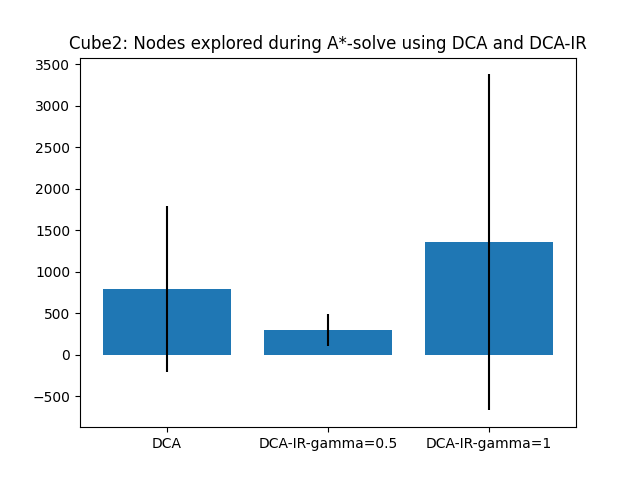
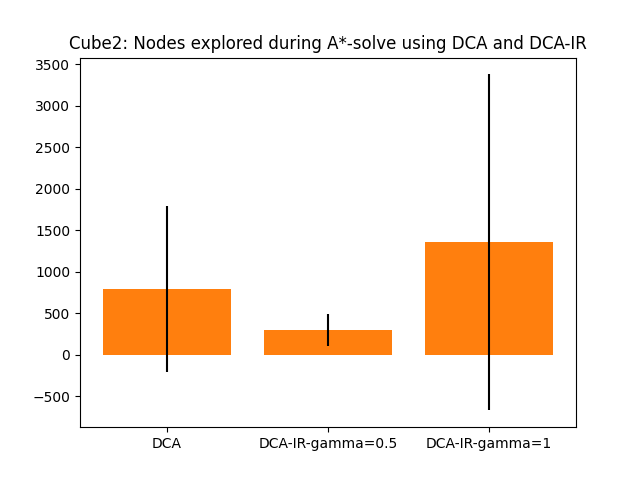
cube2 node graph changed color

Changed region(s): [[0.6562, 0.5, 0.875, 0.75], [0.1562, 0.5938, 0.375, 0.75], [0.4062, 0.6875, 0.625, 0.75]]

diff --git a/results/check_results.py b/results/check_results.py
@@ -33,8 +33,8 @@ def plot(traj, sample_id, result_path):
         axes[0, 1].imshow(COLOR_MAP[traj[sample_id][k][0]])
         axes[1, 0].imshow(COLOR_MAP[traj[sample_id][k][1]])
         axes[1, 1].imshow(COLOR_MAP[traj[sample_id][k][2]])
-        axes[1, 2].imshow(COLOR_MAP[traj[sample_id][k][3]]) # WARNING: changed 
-        axes[1, 3].imshow(COLOR_MAP[traj[sample_id][k][4]]) # WARNING: changed
+        axes[1, 2].imshow(COLOR_MAP[traj[sample_id][k][3]])
+        axes[1, 3].imshow(COLOR_MAP[traj[sample_id][k][4]])
         axes[2, 1].imshow(COLOR_MAP[traj[sample_id][k][5]])
 
         save_dir = result_path + "sample_traj/{}/".format(sample_id)
@@ -71,7 +71,7 @@ def combine_imgs(result_path, idx, traj_len):
     fig.savefig(save_path)
     plt.close()
 
-def make_trajectory_plot(result0_path, result1_path, num_samples=10):
+def make_trajectory_plot(result0_path, result1_path, result2_path, num_samples=10):
     with open(result0_path + "results.pkl", 'rb') as f:
         result0 = pickle.load(f)
     with open(result1_path + "results.pkl", "rb") as f:
@@ -159,7 +159,7 @@ def make_node_plot(result0_path, result1_path, result2_path, num_samples=10):
     
     plt.bar([0, 1, 2], [mean0, mean1, mean2],
             tick_label=["DCA", "DCA-IR-gamma=0.5", "DCA-IR-gamma=1"],
-            yerr=[[std0, std1, std2], [std0, std1, std2]])
+            yerr=[[std0, std1, std2], [std0, std1, std2]], color='#ff7f0e')
     plt.title("Cube2: Nodes explored during A*-solve using DCA and DCA-IR")
     plt.savefig("plots/cube2_DCA_vs_DCA-IR_node.png")
 
@@ -205,7 +205,7 @@ def main(result0_path, result1_path, result2_path, num_samples=10, task="all"):
 if __name__ == "__main__":
     if len(sys.argv) != 5 and len(sys.argv) != 1:
         print("Usage:")
-        print("  python dechk_results.py <result0 pickle path> \
+        print("  python check_results.py <result0 pickle path> \
 <result1 pickle path> <number of samples to check> <trajectory_plot/other_plots>")
 
     if len(sys.argv) == 4:
@@ -218,6 +218,6 @@ if __name__ == "__main__":
         result1_path = str("results/cube2_irnext_gamma=mid/")
         result2_path = str("results/cube2_irnext_gamma=1/")
         num_samples = 10
-        task = "step" #"all"
+        task = "node" #"all"
     
     main(result0_path, result1_path, result2_path, num_samples, task)
